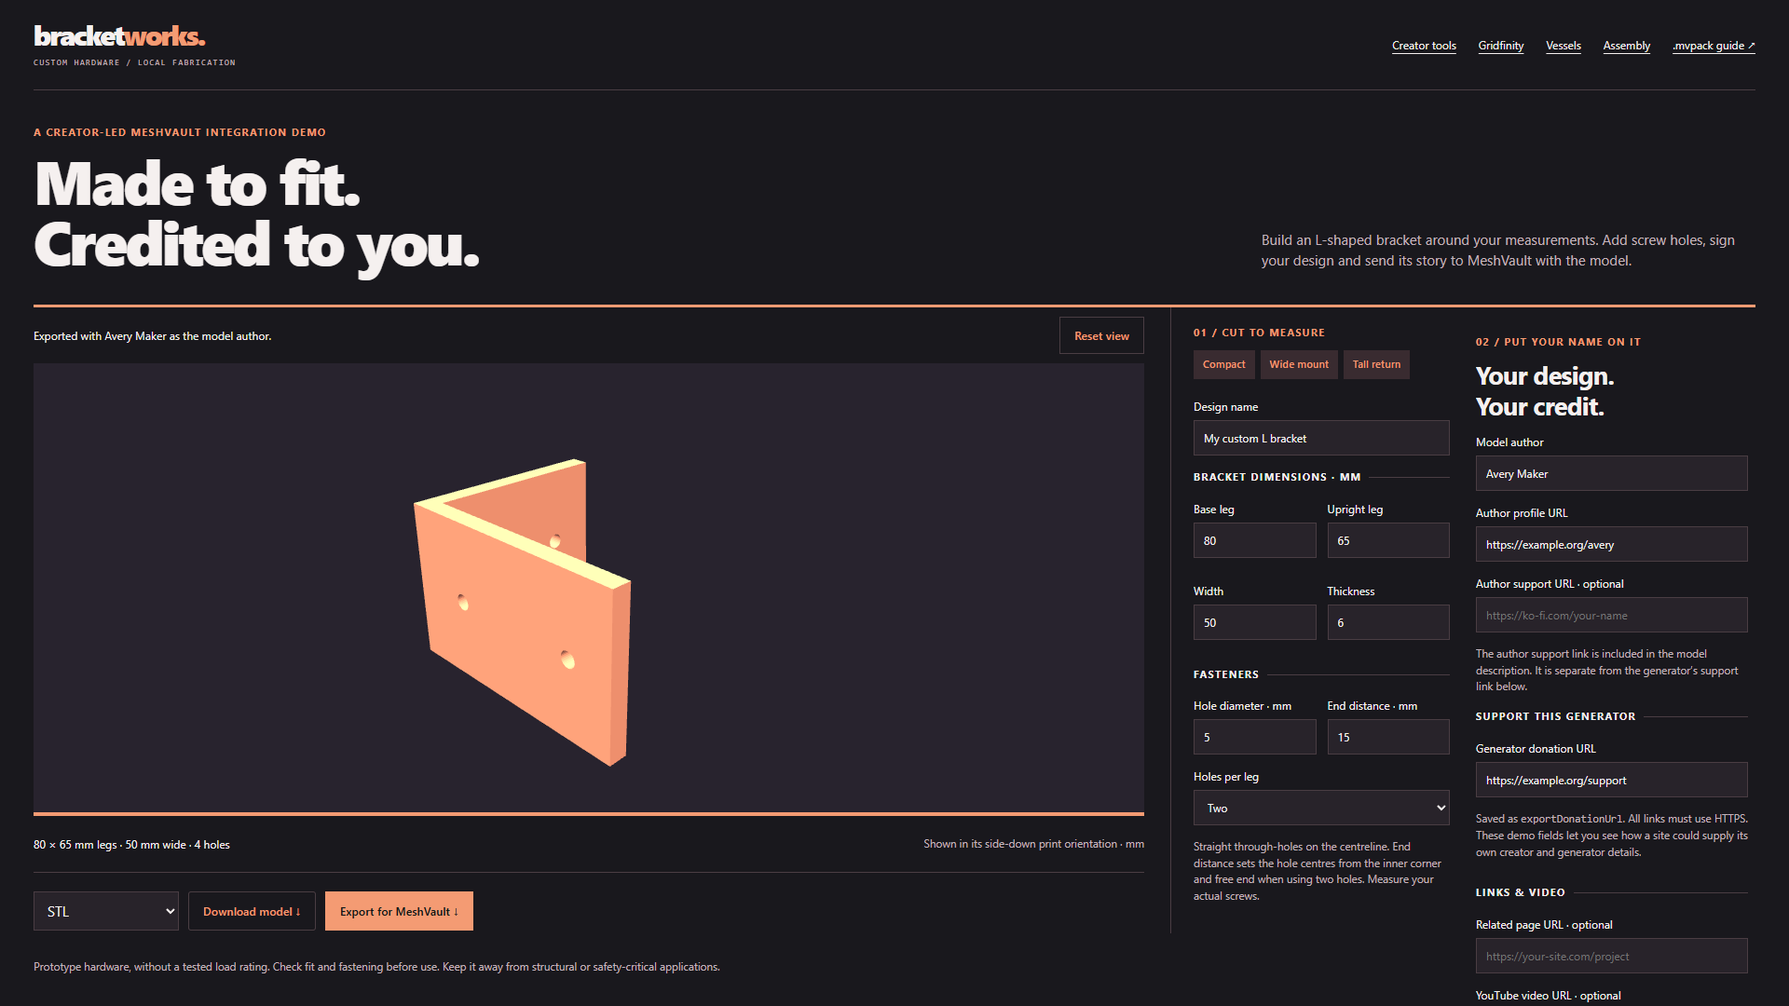
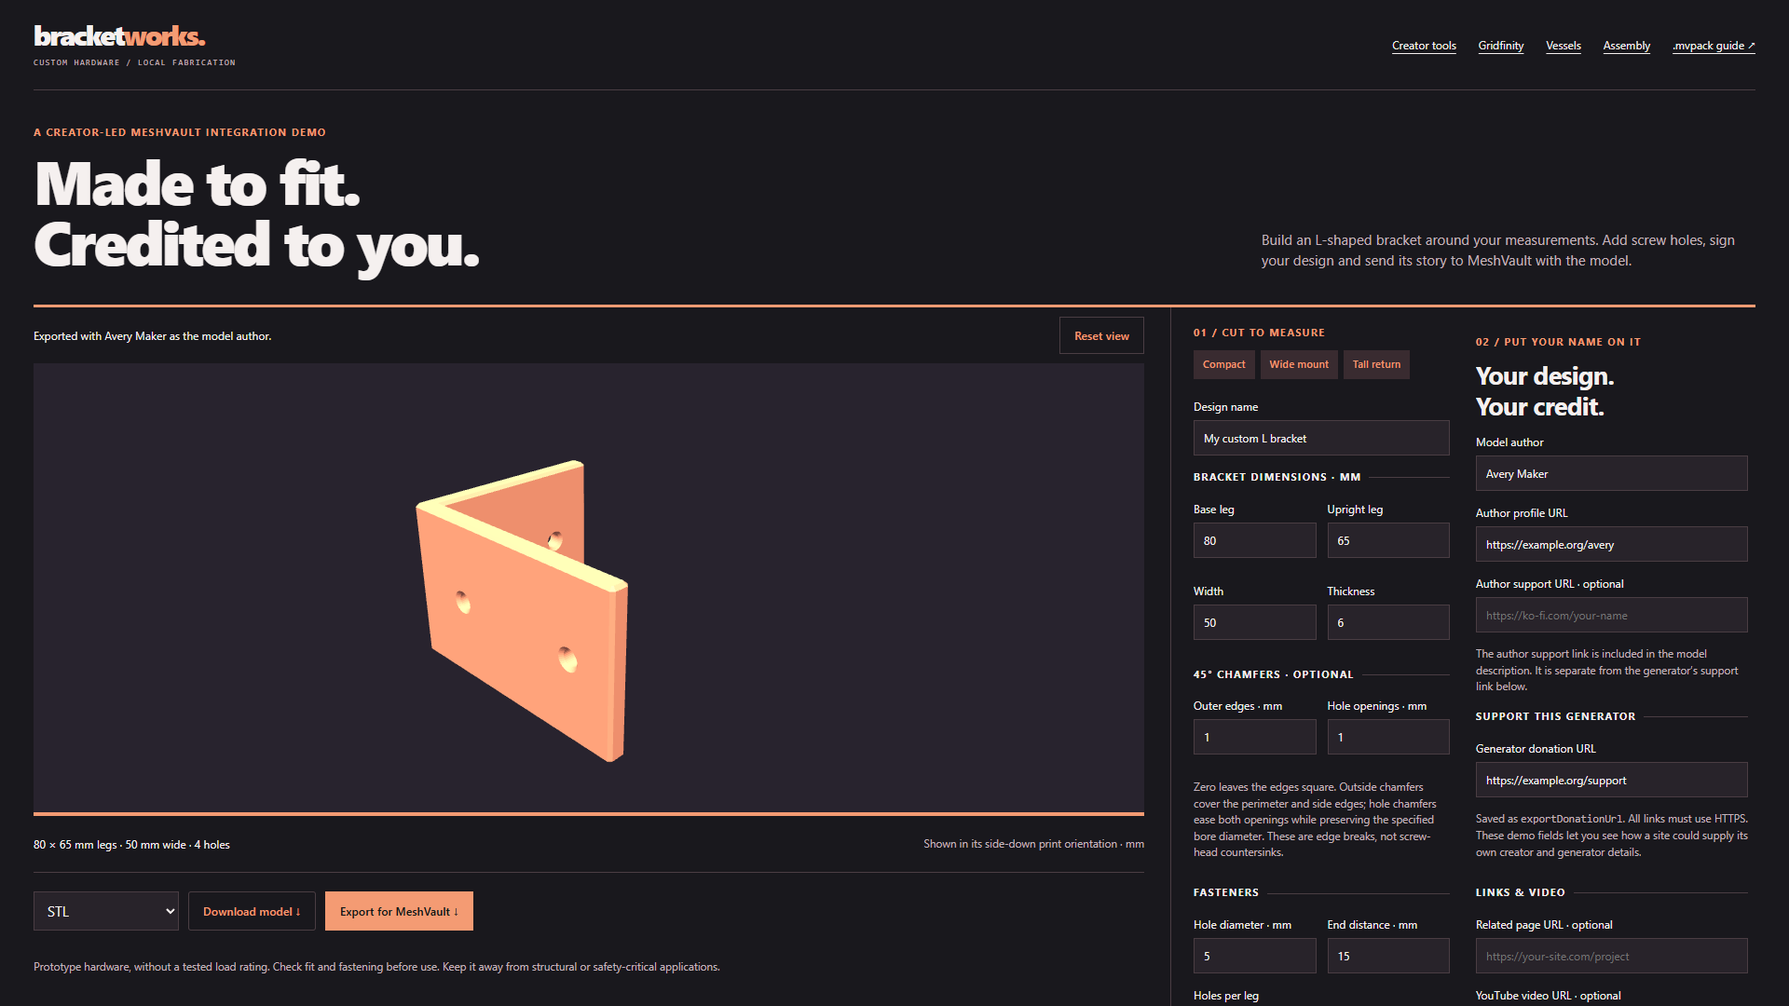
Add independent outer-edge and hole chamfers to bracket generator

diff --git a/generators/brackets/index.html b/generators/brackets/index.html
@@ -3,6 +3,6 @@
 <body class="bracket-studio"><header><a class="site-brand" href="./">bracket<span>works.</span><small>CUSTOM HARDWARE / LOCAL FABRICATION</small></a><nav><a href="../../">Creator tools</a><a href="../gridfinity/">Gridfinity</a><a href="../vessels/">Vessels</a><a href="../assembly/">Assembly</a><a href="../../generator/">.mvpack guide ↗</a></nav></header>
 <main><div class="masthead"><div><p class="eyebrow">A creator-led MeshVault integration demo</p><h1>Made to fit.<br>Credited to you.</h1></div><p class="intro">Build an L-shaped bracket around your measurements. Add screw holes, sign your design and send its story to MeshVault with the model.</p></div>
 <div class="workspace"><section class="preview" aria-label="Bracket preview"><div class="preview-toolbar"><span id="status" role="status" aria-live="polite">Preparing your bracket…</span><button id="reset-view" class="secondary" type="button">Reset view</button></div><div id="viewer" tabindex="0" aria-label="3D bracket preview. Drag to orbit and scroll to zoom."></div><div class="preview-toolbar"><span id="dimensions"></span><span class="small">Shown in its side-down print orientation · mm</span></div><div class="export-panel"><div class="export-actions"><select id="format" aria-label="Model format"><option value="3mf">3MF · millimetres</option><option value="stl">STL</option></select><button id="download" class="secondary" disabled>Download model ↓</button><button id="mvpack" disabled>Export for MeshVault ↓</button></div></div><p class="small">Prototype hardware, without a tested load rating. Check fit and fastening before use. Keep it away from structural or safety-critical applications.</p></section>
-<form id="settings"><p class="step">01 / Cut to measure</p><div class="presets"><button type="button" data-preset="compact">Compact</button><button type="button" data-preset="wide">Wide mount</button><button type="button" data-preset="tall">Tall return</button></div><label>Design name<input type="text" name="title" value="My custom L bracket" maxlength="80" required></label><fieldset><legend>Bracket dimensions · mm</legend><div class="fields"><label>Base leg<input name="length" type="number" min="30" max="180" value="65" required></label><label>Upright leg<input name="height" type="number" min="30" max="160" value="50" required></label><label>Width<input name="width" type="number" min="18" max="80" value="30" required></label><label>Thickness<input name="thickness" type="number" min="3" max="12" step="0.5" value="5" required></label></div></fieldset><fieldset><legend>Fasteners</legend><div class="fields"><label>Hole diameter · mm<input name="diameter" type="number" min="3" max="10" step="0.1" value="4.5" required></label><label>End distance · mm<input name="edge" type="number" min="5" max="40" step="0.5" value="12" required></label></div><label>Holes per leg<select name="holes"><option value="2">Two</option><option value="1">One · centred</option></select></label><p class="small">Straight through-holes on the centreline. End distance sets the hole centres from the inner corner and free end when using two holes. Measure your actual screws.</p></fieldset></form>
+<form id="settings"><p class="step">01 / Cut to measure</p><div class="presets"><button type="button" data-preset="compact">Compact</button><button type="button" data-preset="wide">Wide mount</button><button type="button" data-preset="tall">Tall return</button></div><label>Design name<input type="text" name="title" value="My custom L bracket" maxlength="80" required></label><fieldset><legend>Bracket dimensions · mm</legend><div class="fields"><label>Base leg<input name="length" type="number" min="30" max="180" value="65" required></label><label>Upright leg<input name="height" type="number" min="30" max="160" value="50" required></label><label>Width<input name="width" type="number" min="18" max="80" value="30" required></label><label>Thickness<input name="thickness" type="number" min="3" max="12" step="0.5" value="5" required></label></div></fieldset><fieldset><legend>45° chamfers · optional</legend><div class="fields"><label>Outer edges · mm<input name="edgeChamfer" type="number" min="0" max="3" step="0.1" value="0" required></label><label>Hole openings · mm<input name="holeChamfer" type="number" min="0" max="3" step="0.1" value="0" required></label></div><p class="small">Zero leaves the edges square. Outside chamfers cover the perimeter and side edges; hole chamfers ease both openings while preserving the specified bore diameter. These are edge breaks, not screw-head countersinks.</p></fieldset><fieldset><legend>Fasteners</legend><div class="fields"><label>Hole diameter · mm<input name="diameter" type="number" min="3" max="10" step="0.1" value="4.5" required></label><label>End distance · mm<input name="edge" type="number" min="5" max="40" step="0.5" value="12" required></label></div><label>Holes per leg<select name="holes"><option value="2">Two</option><option value="1">One · centred</option></select></label><p class="small">Straight through-holes on the centreline. End distance sets the hole centres from the inner corner and free end when using two holes. Measure your actual screws.</p></fieldset></form>
 <aside class="creator-panel" aria-label="Custom creator details"><p class="step">02 / Put your name on it</p><h2>Your design.<br>Your credit.</h2><form id="creator"><label>Model author<input type="text" name="author" value="Xalies" maxlength="100" required></label><label>Author profile URL<input name="authorUrl" type="url" value="https://xalies.github.io/" placeholder="https://your-site.com"></label><label>Author support URL · optional<input name="authorSupport" type="url" placeholder="https://ko-fi.com/your-name"></label><p class="small">The author support link is included in the model description. It is separate from the generator’s support link below.</p><fieldset><legend>Support this generator</legend><label>Generator donation URL<input name="donation" type="url" value="https://buymeacoffee.com/xalies" placeholder="https://buymeacoffee.com/your-name"></label><p class="small">Saved as <code>exportDonationUrl</code>. All links must use HTTPS. These demo fields let you see how a site could supply its own creator and generator details.</p></fieldset><fieldset><legend>Links &amp; video</legend><label>Related page URL · optional<input name="relatedUrl" type="url" placeholder="https://your-site.com/project"></label><label>YouTube video URL · optional<input name="youtube" type="url" placeholder="https://www.youtube.com/watch?v=…"></label><p class="small">Saved in the HTML description, with a watch link if the client cannot display the embedded player. Playback requires internet access and a video that allows embedding.</p></fieldset></form><div class="credit-preview"><p class="step">Export attribution</p><p>Created by <strong id="credit-author">Xalies</strong></p><p>Generated with <strong>Bracket Works</strong></p><a id="credit-support" href="https://buymeacoffee.com/xalies" target="_blank" rel="noopener noreferrer">Support Bracket Works ↗</a></div></aside></div>
 <section class="integration"><div><p class="step">03 / Attribution that travels</p><h2>A useful part, with a human behind it.</h2><p>Custom author and profile details use <code>author</code> and <code>authorUrl</code>. The generator donation URL uses <code>exportDonationUrl</code>. An optional author support link is included in <code>descriptionHtml</code>.</p><p>The package carries the same STL or 3MF bytes as the ordinary download, a 16:9 preview, print notes and attached dimensions. A root-level model enters Imports to Review.</p><a href="../../generator/">Use this integration on your own site →</a> · <a href="README.md">Source &amp; licences</a></div><div><p class="step">Inside the package</p><pre id="package-contents"></pre><p class="small">Print on the L-shaped side with a calibrated profile. Start with 0.2 mm layers, 4 perimeters and 40% infill; inspect hole bridges and the corner in your slicer. Settings do not establish a load rating.</p></div></section><article id="description" class="rich-description" aria-label="Exported description preview"></article></main><footer>Bracket Works by Xalies · <a href="https://buymeacoffee.com/xalies">Support the generator</a> · <a href="../../meshvault/">Meet MeshVault</a> · Model dimensions are nominal; validate your printed part.</footer></body></html>

diff --git a/generators/brackets/studio.js b/generators/brackets/studio.js
@@ -7,12 +7,12 @@ const escape=value=>String(value).replace(/[&<>"']/g,c=>({'&':'&amp;','<':'&lt;'
 function url(value){if(!value.trim())return '';const u=new URL(value);if(u.protocol!=='https:'||u.username||u.password)throw new Error('Use HTTPS links without a username or password.');return u.href;}
 function attribution(validate=true){if(validate&&!creator.reportValidity())throw new Error('Check your creator details.');return {author:creator.elements.author.value.trim(),authorUrl:url(creator.elements.authorUrl.value),authorSupport:url(creator.elements.authorSupport.value),donation:url(creator.elements.donation.value),relatedUrl:url(creator.elements.relatedUrl.value),youtube:youtubeId(creator.elements.youtube.value)};}
 function youtubeId(value){if(!value.trim())return '';const u=new URL(url(value)),host=u.hostname.toLowerCase();let id;if(host==='youtu.be')id=u.pathname.slice(1).split('/')[0];else if(['youtube.com','www.youtube.com','m.youtube.com','youtube-nocookie.com','www.youtube-nocookie.com'].includes(host)){const parts=u.pathname.split('/').filter(Boolean);id=['embed','shorts'].includes(parts[0])?parts[1]:u.searchParams.get('v');}if(!/^[a-zA-Z0-9_-]{11}$/.test(id||''))throw new Error('Enter a YouTube watch, share, Shorts or embed URL.');return id;}
-function description(snapshot,a){return `<h2>${escape(snapshot.settings.title)}</h2><p>Custom L-shaped mounting bracket, designed by <strong>${escape(a.author)}</strong>${a.authorUrl?` · <a href="${escape(a.authorUrl)}">Creator profile</a>`:''}.</p><p>${snapshot.settings.length} × ${snapshot.settings.height} mm legs, ${snapshot.settings.width} mm wide and ${snapshot.settings.thickness} mm thick. ${snapshot.settings.holes} holes per leg, ${snapshot.settings.diameter} mm diameter.</p>${a.authorSupport?`<p><a href="${escape(a.authorSupport)}">Support ${escape(a.author)}</a></p>`:''}${a.relatedUrl?`<p><a href="${escape(a.relatedUrl)}">More about this project</a></p>`:''}${a.youtube?`<h3>Video guide</h3><div class="video-embed"><iframe width="560" height="315" src="https://www.youtube-nocookie.com/embed/${a.youtube}" title="YouTube video guide" loading="lazy" referrerpolicy="strict-origin-when-cross-origin" allow="encrypted-media; picture-in-picture; fullscreen" allowfullscreen></iframe></div><p><a href="https://www.youtube.com/watch?v=${a.youtube}">Watch the video on YouTube</a></p>`:''}<p>Generated with Bracket Works. Check the printed fit, corner and fastening before use; no rated load.</p>`;}
+function description(snapshot,a){return `<h2>${escape(snapshot.settings.title)}</h2><p>Custom L-shaped mounting bracket, designed by <strong>${escape(a.author)}</strong>${a.authorUrl?` · <a href="${escape(a.authorUrl)}">Creator profile</a>`:''}.</p><p>${snapshot.settings.length} × ${snapshot.settings.height} mm legs, ${snapshot.settings.width} mm wide and ${snapshot.settings.thickness} mm thick. ${snapshot.settings.holes} holes per leg, ${snapshot.settings.diameter} mm bore diameter. Outer edge chamfer: ${snapshot.settings.edgeChamfer} mm; hole-opening chamfer: ${snapshot.settings.holeChamfer} mm (45°).</p>${a.authorSupport?`<p><a href="${escape(a.authorSupport)}">Support ${escape(a.author)}</a></p>`:''}${a.relatedUrl?`<p><a href="${escape(a.relatedUrl)}">More about this project</a></p>`:''}${a.youtube?`<h3>Video guide</h3><div class="video-embed"><iframe width="560" height="315" src="https://www.youtube-nocookie.com/embed/${a.youtube}" title="YouTube video guide" loading="lazy" referrerpolicy="strict-origin-when-cross-origin" allow="encrypted-media; picture-in-picture; fullscreen" allowfullscreen></iframe></div><p><a href="https://www.youtube.com/watch?v=${a.youtube}">Watch the video on YouTube</a></p>`:''}<p>Generated with Bracket Works. Check the printed fit, corner and fastening before use; no rated load.</p>`;}
 function showDescription(){if(!current)return;try{document.querySelector('#description').innerHTML=description(current,attribution(false));}catch(e){document.querySelector('#description').textContent=e.message;}}
 function credit(){document.querySelector('#credit-author').textContent=creator.elements.author.value||'Your name';const link=document.querySelector('#credit-support');try{const href=url(creator.elements.donation.value);link.hidden=!href;link.href=href;}catch{link.hidden=true;}showDescription();}
 function render(){renderer.render(scene,camera);}
 function resetView(){if(!mesh)return;const bounds=new THREE.Box3().setFromObject(mesh),centre=bounds.getCenter(new THREE.Vector3()),size=bounds.getSize(new THREE.Vector3()),d=Math.max(size.x,size.y,size.z)*1.7/Math.min(1,camera.aspect);camera.position.set(centre.x+d,centre.y+d*.7,centre.z+d);controls.target.copy(centre);controls.update();render();}
-async function update(){const version=++revision;current=null;pack.disabled=download.disabled=true;try{form.elements.edge.disabled=form.elements.holes.value==='1';if(!form.reportValidity())throw new Error('Check the bracket dimensions.');const settings=Object.fromEntries(new FormData(form));for(const name of ['length','height','width','thickness','diameter','edge','holes'])settings[name]=Number(form.elements.namedItem(name).value);const geometry=bracketMesh(settings);if(mesh){scene.remove(mesh);mesh.geometry.dispose();mesh.material.dispose();}const g=new THREE.BufferGeometry();g.setAttribute('position',new THREE.Float32BufferAttribute(geometry.positions.flatMap((_,i)=>i%3===0?[geometry.positions[i],geometry.positions[i+2],-geometry.positions[i+1]]:[]),3));g.setIndex(geometry.indices);g.computeVertexNormals();mesh=new THREE.Mesh(g,new THREE.MeshStandardMaterial({color:'#f49b73',roughness:.6,flatShading:true}));scene.add(mesh);resetView();const thumbnail=await canvasThumbnail(renderer.domElement,'#28232e');if(version!==revision)return;current={settings,geometry,thumbnail,files:{
+async function update(){const version=++revision;current=null;pack.disabled=download.disabled=true;try{form.elements.edge.disabled=form.elements.holes.value==='1';if(!form.reportValidity())throw new Error('Check the bracket dimensions.');const settings=Object.fromEntries(new FormData(form));for(const name of ['length','height','width','thickness','diameter','edge','holes','edgeChamfer','holeChamfer'])settings[name]=Number(form.elements.namedItem(name).value);const geometry=bracketMesh(settings);if(mesh){scene.remove(mesh);mesh.geometry.dispose();mesh.material.dispose();}const g=new THREE.BufferGeometry();g.setAttribute('position',new THREE.Float32BufferAttribute(geometry.positions.flatMap((_,i)=>i%3===0?[geometry.positions[i],geometry.positions[i+2],-geometry.positions[i+1]]:[]),3));g.setIndex(geometry.indices);g.computeVertexNormals();mesh=new THREE.Mesh(g,new THREE.MeshStandardMaterial({color:'#f49b73',roughness:.6,flatShading:true}));scene.add(mesh);resetView();const thumbnail=await canvasThumbnail(renderer.domElement,'#28232e');if(version!==revision)return;current={settings,geometry,thumbnail,files:{
   '3mf':new File([create3MF(geometry)],'custom-bracket.3mf',{type:'model/3mf'}),
   'stl':new File([plateSTL(geometry)],'custom-bracket.stl',{type:'model/stl'})
 }};showDescription();pack.disabled=download.disabled=false;status.textContent='Your bracket is ready.';document.querySelector('#dimensions').textContent=`${settings.length} × ${settings.height} mm legs · ${settings.width} mm wide · ${settings.holes*2} holes`;document.querySelector('#package-contents').textContent='custom-bracket.mvpack\n├── custom-bracket.'+format.value+'\n├── meshvault.model.json\n├── images/thumbnail.png (16:9)\n└── documents/generator-settings.json';}catch(error){status.textContent=error.message;}}

diff --git a/generators/brackets/geometry.js b/generators/brackets/geometry.js
@@ -1,8 +1,13 @@
 // MIT · Copyright 2026 Xalies. A closed boundary mesh, with no overlapping solids.
 export function bracketMesh(s) {
+  const C=s.edgeChamfer??0, B=s.holeChamfer??0;
   const {length:L,height:H,width:W,thickness:T,diameter:D,edge:E,holes:N}=s;
   if (![L,H,W,T,D,E,N].every(Number.isFinite) || L<30 || L>180 || H<30 || H>160 || W<18 || W>80 || T<3 || T>12 || D<3 || D>10 || (N===2&&(E<D/2+3 || E>40)) || ![1,2].includes(N) || Math.min(L,H)<T+(N===2?2*E+D+3:D+6) || W<D+6)
     throw new Error('Leave at least 3 mm around each hole and between holes. Increase the legs or reduce the hole diameter / edge distance.');
+  if (![C,B].every(Number.isFinite) || C<0 || C>Math.min(3,T/4) || B<0 || B>3 || B>=T/2)
+    throw new Error('Outer chamfers must be no more than a quarter of the thickness (up to 3 mm); hole chamfers must be smaller than half the thickness (up to 3 mm).');
+  if (W<D+2*(B+C)+6 || (N===2&&(E<D/2+B+C+3 || Math.min(L,H)<T+2*E+D+2*B+3)) || (N===1&&Math.min(L,H)<T+D+2*(B+C)+6))
+    throw new Error('Chamfers need at least 3 mm of material around the hole openings. Increase the dimensions or reduce the chamfer size.');
   const positions=[],indices=[],lookup=new Map(),r=D/2;
   const point=p=>{const key=p.map(v=>Math.fround(v)).join(',');if(!lookup.has(key)){lookup.set(key,positions.length/3);positions.push(...p);}return lookup.get(key);};
   function triangle(a,b,c,normal) {
@@ -11,7 +16,7 @@ export function bracketMesh(s) {
     indices.push(point(a),point(b),point(c));
   }
   const rect=(a,b,c,d)=>[[a,b],[c,b],[c,d],[a,d]];
-  const circles=extent=>(N===1?[(T+extent)/2]:[T+E,extent-E]).map(p=>Array.from({length:32},(_,i)=>[Math.fround(W/2+r*Math.cos(i*Math.PI/16)),Math.fround(p+r*Math.sin(i*Math.PI/16))]));
+  const circles=(extent,radius=r)=>(N===1?[(T+extent)/2]:[T+E,extent-E]).map(p=>Array.from({length:32},(_,i)=>[Math.fround(W/2+radius*Math.cos(i*Math.PI/16)),Math.fround(p+radius*Math.sin(i*Math.PI/16))]));
   function face(polygon,holes,map,normal) {
     const shape=new THREE.Shape();const trace=(path,points)=>{path.moveTo(...points[0]);points.slice(1).forEach(p=>path.lineTo(...p));path.closePath();};trace(shape,polygon);
     holes.forEach(points=>{const hole=new THREE.Path();trace(hole,points);shape.holes.push(hole);});
@@ -19,18 +24,40 @@ export function bracketMesh(s) {
     for(let i=0;i<ix.length;i+=3)triangle(...Array.from(ix.slice(i,i+3)).map(k=>map(src[k*3],src[k*3+1])),normal);
     geometry.dispose();
   }
-  const base=circles(L),wall=circles(H);
-  face(rect(0,0,W,L),base,(x,y)=>[x,y,0],[0,0,-1]);
-  face(rect(0,T,W,L),base,(x,y)=>[x,y,T],[0,0,1]);
-  face(rect(0,0,W,H),wall,(x,z)=>[x,0,z],[0,-1,0]);
-  face(rect(0,T,W,H),wall,(x,z)=>[x,T,z],[0,1,0]);
-  face(rect(0,0,W,T),[],(x,y)=>[x,y,H],[0,0,1]);
-  face(rect(0,0,W,T),[],(x,z)=>[x,L,z],[0,1,0]);
-  const side=[[0,0],[L,0],[L,T],[T,T],[T,H],[0,H]];
-  face(side,[],(y,z)=>[0,y,z],[-1,0,0]);face(side,[],(y,z)=>[W,y,z],[1,0,0]);
-  for(const [rings,map] of [[base,(x,y,t)=>[x,y,t]],[wall,(x,z,t)=>[x,t,z]]]) for(const ring of rings) for(let i=0;i<ring.length;i++) {
-    const a=ring[i],b=ring[(i+1)%ring.length],centre=[W/2,ring.reduce((n,p)=>n+p[1],0)/ring.length],normal=map(centre[0]-(a[0]+b[0])/2,centre[1]-(a[1]+b[1])/2,0);
-    const p=map(...a,0),q=map(...b,0),u=map(...b,T),v=map(...a,T);triangle(p,q,u,normal);triangle(p,u,v,normal);
+  const f=Math.fround, xmin=f(C),xmax=f(W-C);
+  const base=circles(L,r+B),wall=circles(H,r+B);
+  face(rect(xmin,C,xmax,L-C),base,(x,y)=>[x,y,0],[0,0,-1]);
+  face(rect(xmin,T,xmax,L-C),base,(x,y)=>[x,y,T],[0,0,1]);
+  face(rect(xmin,C,xmax,H-C),wall,(x,z)=>[x,0,z],[0,-1,0]);
+  face(rect(xmin,T,xmax,H-C),wall,(x,z)=>[x,T,z],[0,1,0]);
+  face(rect(xmin,C,xmax,T-C),[],(x,y)=>[x,y,H],[0,0,1]);
+  face(rect(xmin,C,xmax,T-C),[],(x,z)=>[x,L,z],[0,1,0]);
+  const side=(C?[[C,0],[L-C,0],[L,C],[L,T-C],[L-C,T],[T,T],[T,H-C],[T-C,H],[C,H],[0,H-C],[0,C]]:[[0,0],[L,0],[L,T],[T,T],[T,H],[0,H]]).map(p=>p.map(f));
+  // Offset the side-cap outline inward. Lofting to the full profile bevels the
+  // width-end edges as well as the five convex corners across the width.
+  const inset=C?side.map((p,i)=>{
+    const before=side[(i+side.length-1)%side.length],after=side[(i+1)%side.length];
+    const normal=(a,b)=>{const dx=b[0]-a[0],dy=b[1]-a[1],length=Math.hypot(dx,dy);return [-dy/length,dx/length];};
+    const a=normal(before,p),b=normal(p,after),u=a[0]*p[0]+a[1]*p[1]+C,v=b[0]*p[0]+b[1]*p[1]+C,det=a[0]*b[1]-a[1]*b[0];
+    return [f((u*b[1]-a[1]*v)/det),f((a[0]*v-u*b[0])/det)];
+  }):side;
+  face(inset,[],(y,z)=>[0,y,z],[-1,0,0]);face(inset,[],(y,z)=>[W,y,z],[1,0,0]);
+  const quad=(a,b,c,d,normal)=>{triangle(a,b,c,normal);triangle(a,c,d,normal);};
+  for(let i=0;i<side.length;i++) {
+    const j=(i+1)%side.length,a=side[i],b=side[j],dy=b[0]-a[0],dz=b[1]-a[1];
+    if(dy&&dz)quad([xmin,...a],[xmax,...a],[xmax,...b],[xmin,...b],[0,dz,-dy]);
+    if(C)for(const [outer,inner,direction] of [[0,xmin,-1],[W,xmax,1]])
+      quad([outer,...inset[i]],[inner,...a],[inner,...b],[outer,...inset[j]],[direction*Math.hypot(dy,dz),dz,-dy]);
+  }
+  for(const [extent,map] of [[L,(x,y,t)=>[x,y,t]],[H,(x,z,t)=>[x,t,z]]]) {
+    const layers=B?[[0,r+B],[B,r],[T-B,r],[T,r+B]]:[[0,r],[T,r]];
+    for(let layer=0;layer<layers.length-1;layer++) {
+      const [t0,r0]=layers[layer],[t1,r1]=layers[layer+1],lower=circles(extent,r0),upper=circles(extent,r1);
+      for(let hole=0;hole<N;hole++)for(let i=0;i<32;i++) {
+        const j=(i+1)%32,a=lower[hole][i],b=lower[hole][j],centre=[W/2,lower[hole].reduce((n,p)=>n+p[1],0)/32],normal=map(centre[0]-(a[0]+b[0])/2,centre[1]-(a[1]+b[1])/2,0);
+        quad(map(...a,t0),map(...b,t0),map(...upper[hole][j],t1),map(...upper[hole][i],t1),normal);
+      }
+    }
   }
   // Lay the L-shaped side on the bed. A cyclic axis permutation preserves winding.
   const print=positions.flatMap((_,i)=>i%3===0?[positions[i+1],positions[i+2],positions[i]]:[]);

diff --git a/generators/brackets/README.md b/generators/brackets/README.md
@@ -25,3 +25,11 @@ Optional related-page and YouTube URLs become description links and a privacy-
 enhanced iframe with a watch-link fallback. Only supported YouTube hosts and
 11-character video IDs are accepted. Playback requires an online client and
 an embeddable video; a packaged iframe is not an offline video download.
+
+Optional 45° chamfers have independent outer-edge and hole-opening sizes; zero
+keeps square edges. Outer bevels cover convex corners across the width and the
+side-cap perimeter, preserving the internal right-angle joint. Size is capped
+at a quarter of thickness and 3 mm. Both hole mouths receive a bevel smaller
+than half the thickness, with 3 mm maximum and a straight bore in between.
+Extra hole clearance is validated after chamfering. This is an edge break, not
+a screw-head countersink. Chamfer sizes travel in settings and description.
